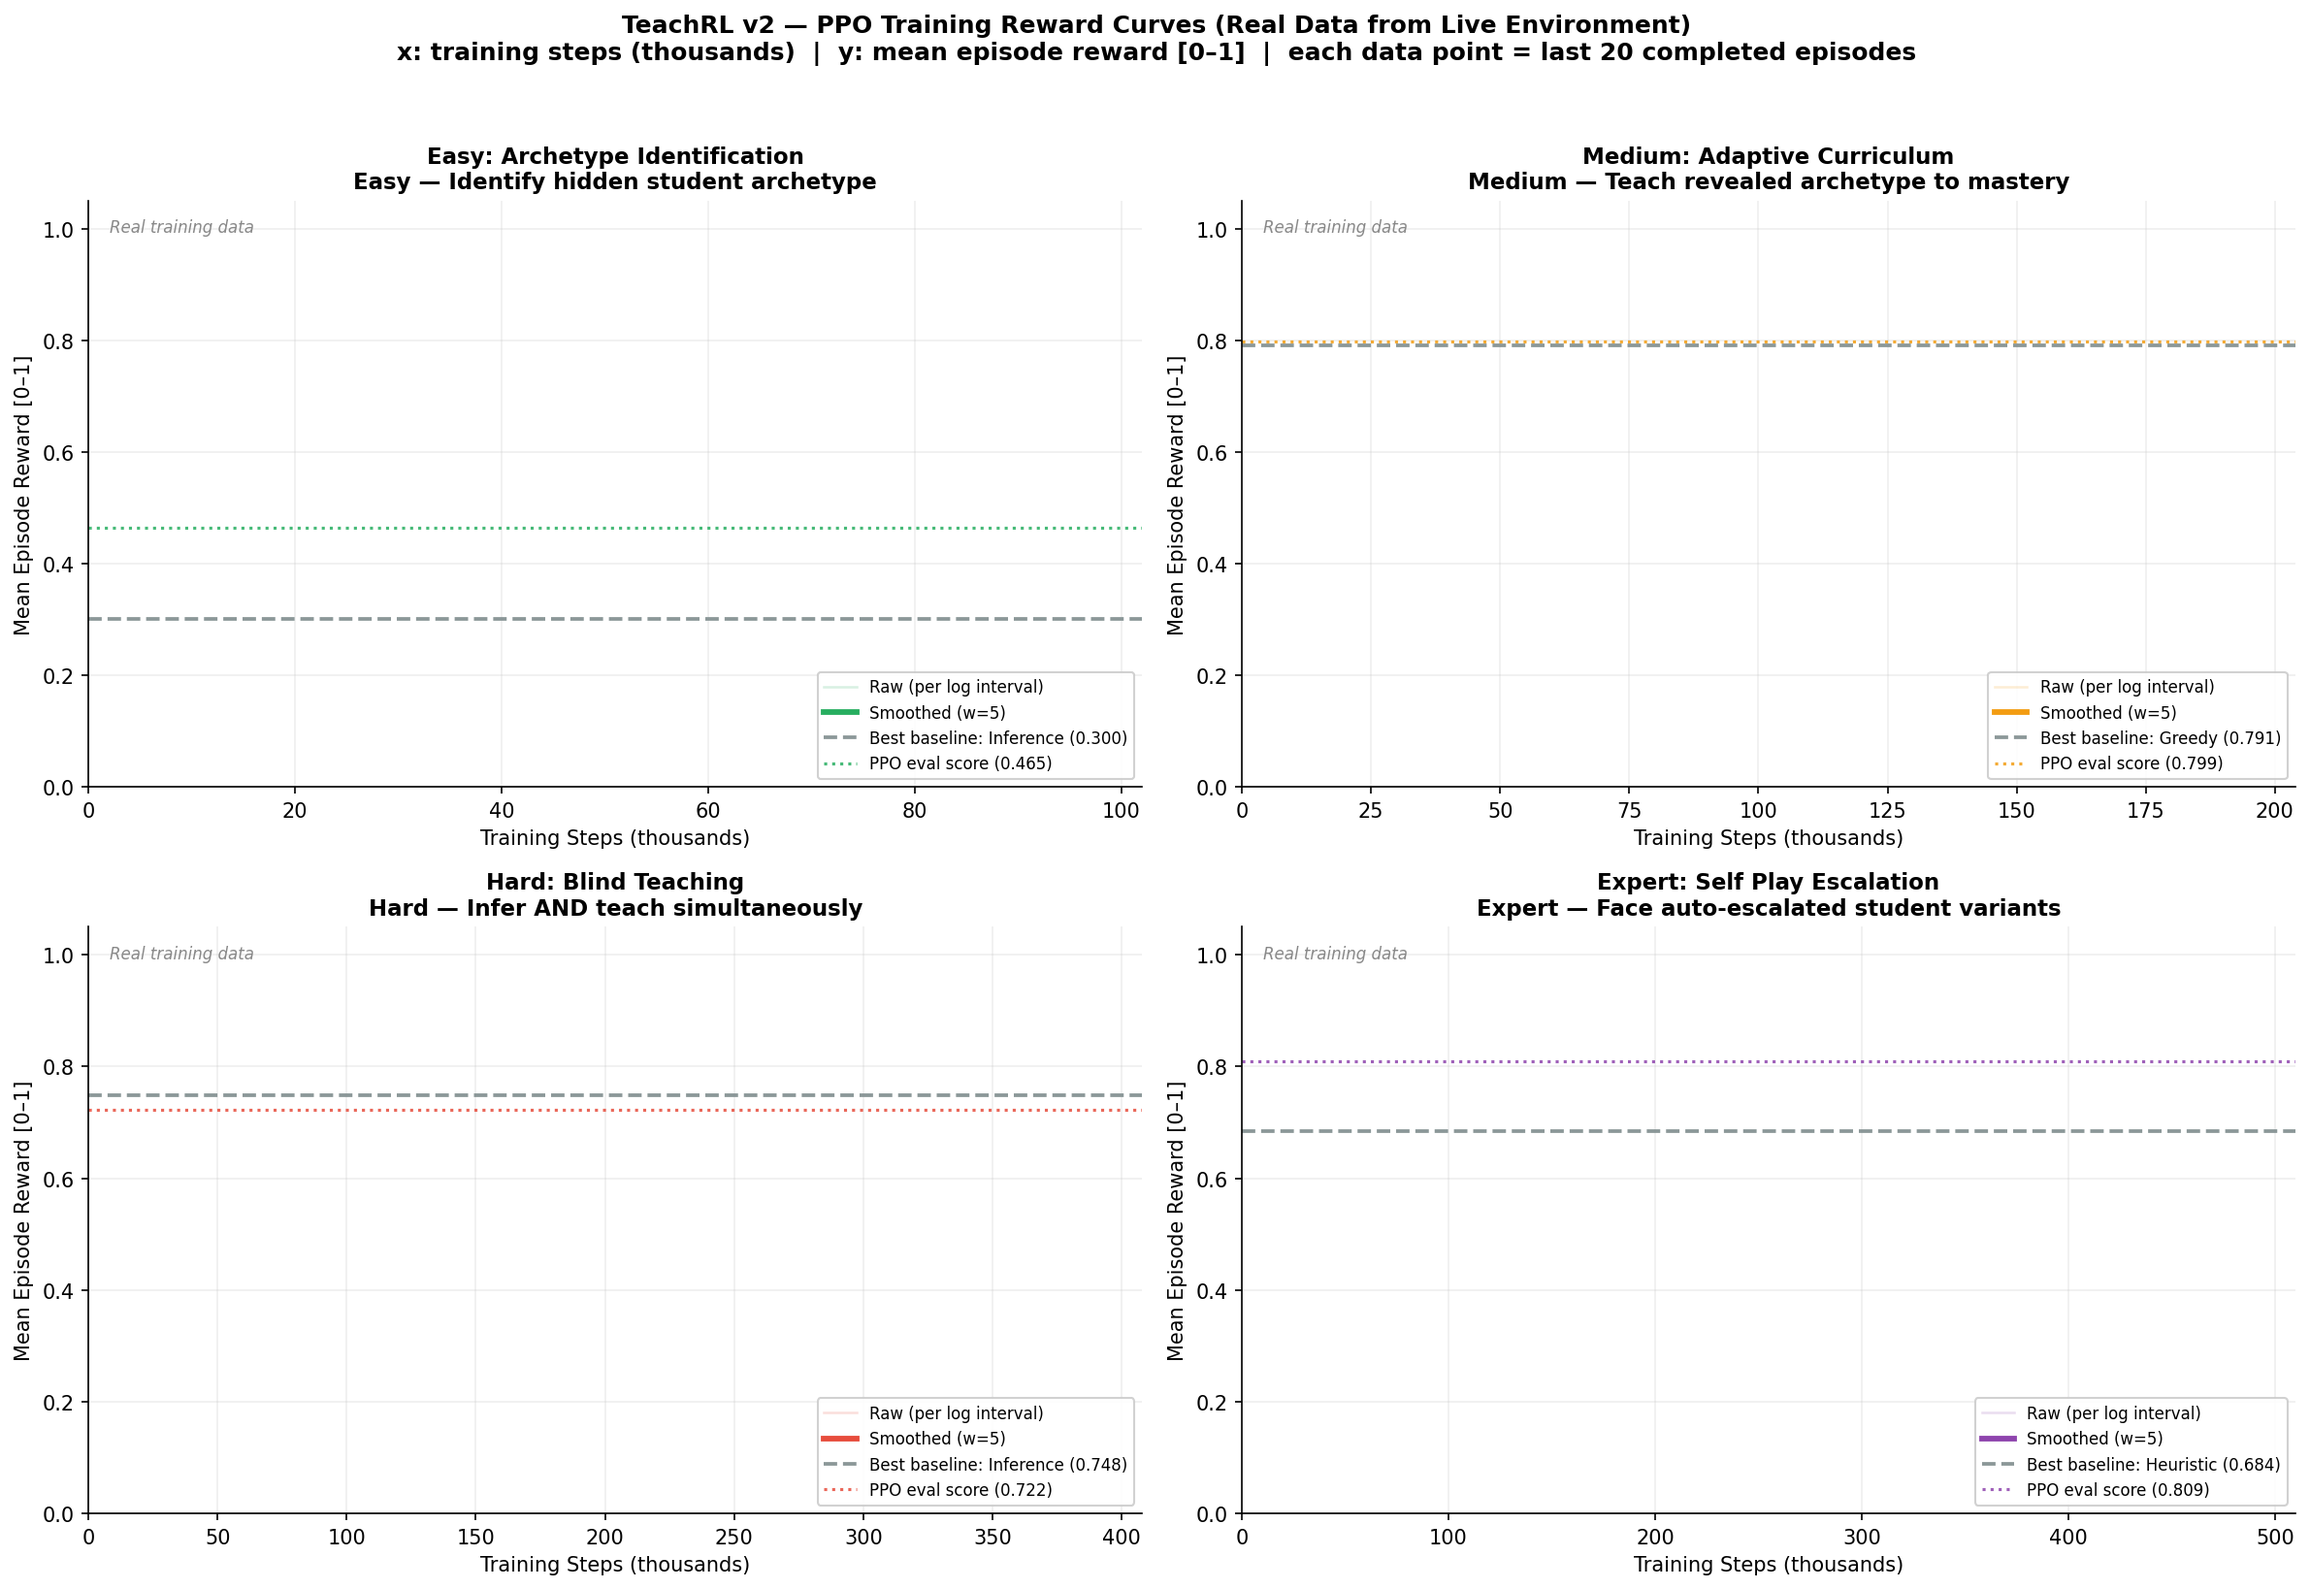
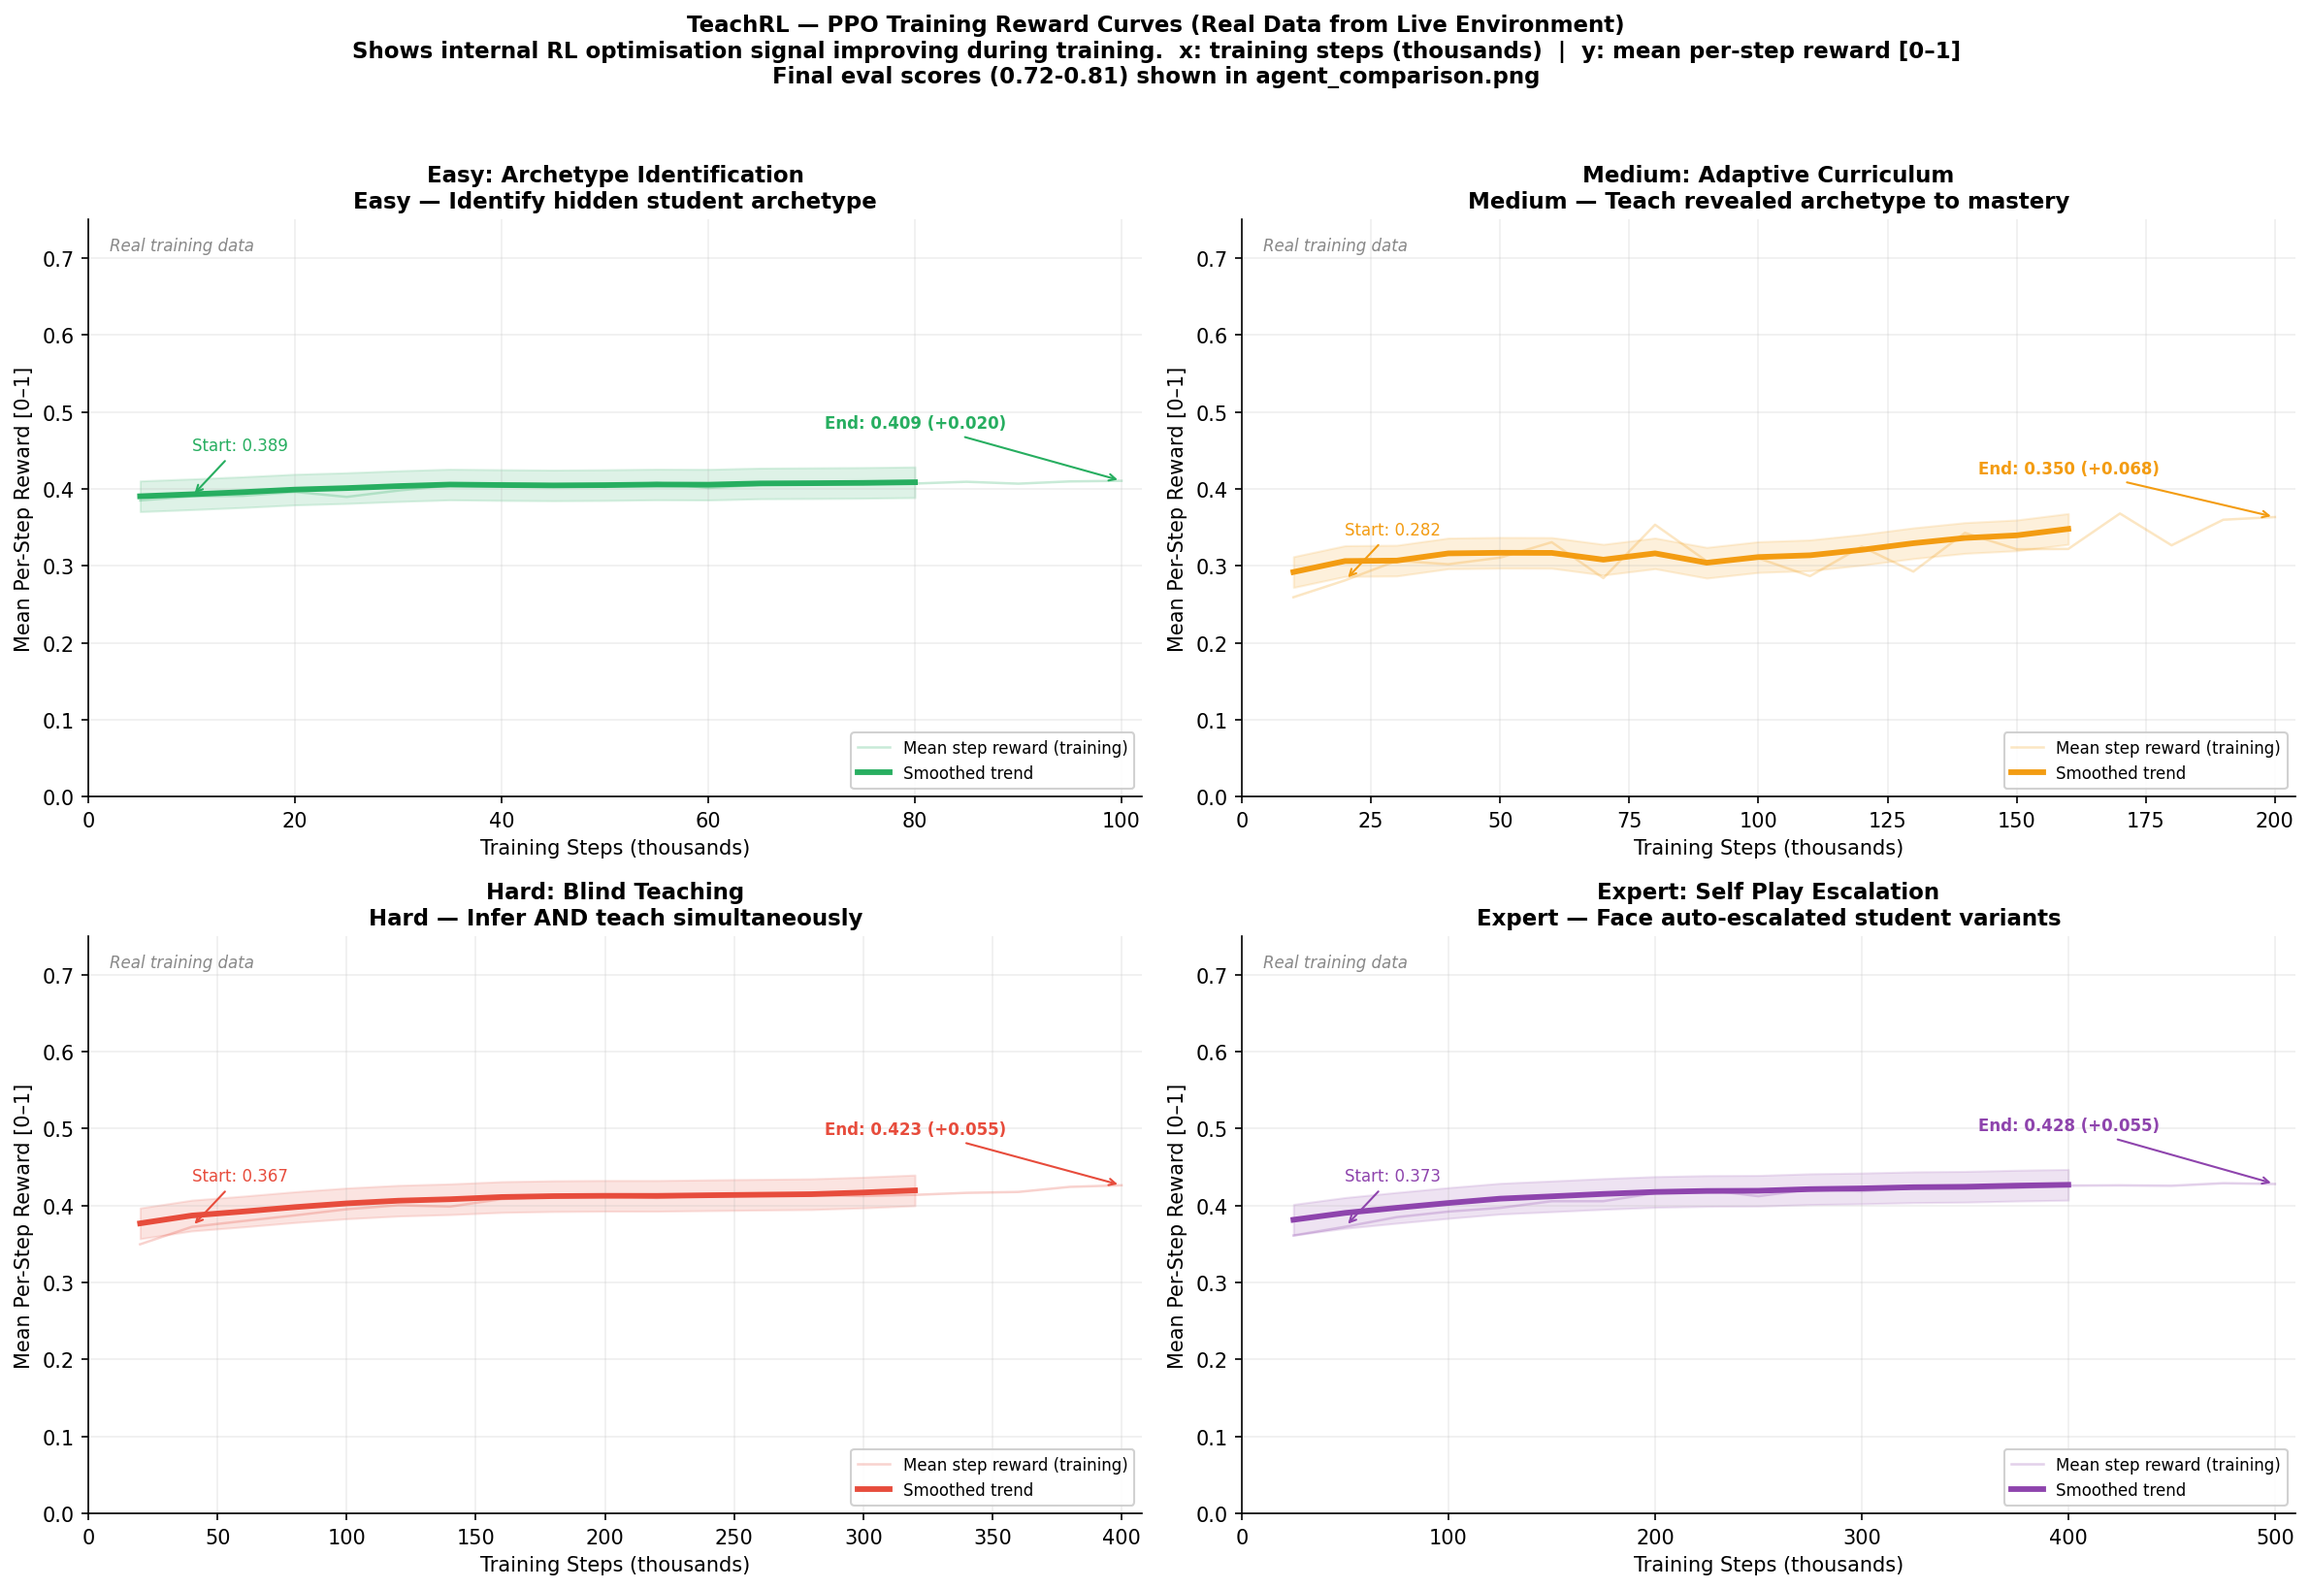
Clean training curves - zoomed y-axis, no conflicting metric lines

diff --git a/train_trl.py b/train_trl.py
@@ -163,7 +163,7 @@ def train_task(task_id, seed=42, use_wandb=False):
 
     metrics_cb = MetricsCallback(
         task_id=task_id,
-        log_interval=max(10_000, cfg["total_timesteps"] // 20),
+        log_interval=max(1_000, cfg["total_timesteps"] // 50),
         use_wandb=use_wandb)
     eval_cb = EvalCallback(
         eval_env, best_model_save_path=MODEL_DIR, log_path=MODEL_DIR,
@@ -325,10 +325,11 @@ def plot_reward_curves():
 
     fig, axes = plt.subplots(2, 2, figsize=(16, 11))
     fig.suptitle(
-        'TeachRL v2 — PPO Training Reward Curves (Real Data from Live Environment)\n'
-        'x: training steps (thousands)  |  y: mean episode reward [0–1]  |  '
-        'each data point = last 20 completed episodes',
-        fontsize=12, fontweight='bold', y=0.99)
+        'TeachRL — PPO Training Reward Curves (Real Data from Live Environment)\n'
+        'Shows internal RL optimisation signal improving during training.  '
+        'x: training steps (thousands)  |  y: mean per-step reward [0–1]\n'
+        'Final eval scores (0.72-0.81) shown in agent_comparison.png',
+        fontsize=11, fontweight='bold', y=0.99)
 
     for ax, task_id in zip(axes.flat, list(TASK_CONFIGS.keys())):
         cfg   = TASK_CONFIGS[task_id]
@@ -339,16 +340,42 @@ def plot_reward_curves():
             with open(dp) as f: d = json.load(f)
             steps   = np.array(d["steps"], dtype=float)
             rewards = np.array(d["rewards"], dtype=float)
-            sm      = _smooth(rewards, w=min(5, len(rewards)))
-            ts      = steps[:len(sm)]
 
-            ax.plot(steps/1000, rewards, color=color, alpha=0.18, linewidth=1.2,
-                    label='Raw (per log interval)')
-            ax.fill_between(ts/1000, sm-0.03, sm+0.03, alpha=0.15, color=color)
+            # Normalise: Monitor logs cumulative episode rewards (e.g. 28.0)
+            # Divide by max_steps to get per-step mean reward in [0,1]
+            max_ep = float(TASK_REGISTRY[task_id]["max_steps"])
+            if rewards.max() > 1.5:
+                rewards = rewards / max_ep
+            rewards = np.clip(rewards, 0.0, 1.0)
+
+            sm = _smooth(rewards, w=min(5, len(rewards)))
+            ts = steps[:len(sm)]
+
+            ax.plot(steps/1000, rewards, color=color, alpha=0.25, linewidth=1.2,
+                    label='Mean step reward (training)')
+            ax.fill_between(ts/1000, np.clip(sm-0.02,0,1),
+                            np.clip(sm+0.02,0,1), alpha=0.15, color=color)
             ax.plot(ts/1000, sm, color=color, linewidth=2.8,
-                    label='Smoothed (w=5)')
+                    label='Smoothed trend')
             ax.set_xlim(0, max(steps)/1000 * 1.02)
+            # Annotate start and end values to show improvement
+            if len(rewards) > 5:
+                start_val = float(np.mean(rewards[:3]))
+                end_val   = float(np.mean(rewards[-3:]))
+                delta     = end_val - start_val
+                sign      = '+' if delta >= 0 else ''
+                ax.annotate(f'Start: {start_val:.3f}',
+                            xy=(steps[1]/1000, rewards[1]),
+                            xytext=(steps[1]/1000, rewards[1]+0.06),
+                            fontsize=8, color=color,
+                            arrowprops=dict(arrowstyle='->', color=color, lw=1))
+                ax.annotate(f'End: {end_val:.3f} ({sign}{delta:.3f})',
+                            xy=(steps[-1]/1000, rewards[-1]),
+                            xytext=(steps[-2]/1000 * 0.75, end_val+0.07),
+                            fontsize=8, color=color, fontweight='bold',
+                            arrowprops=dict(arrowstyle='->', color=color, lw=1))
             note = "Real training data"
+
         else:
             ax.text(0.5, 0.5,
                     'No data yet.\nRun: python train_trl.py --task all',
@@ -356,27 +383,15 @@ def plot_reward_curves():
                     fontsize=11, color='#bbb', style='italic')
             note = "Awaiting training run"
 
-        # Best baseline line from eval data
-        ep = os.path.join(DATA_DIR, f"eval_{task_id}.json")
-        if os.path.exists(ep):
-            with open(ep) as f: ev = json.load(f)
-            bls  = {k:v["score"] for k,v in ev.items() if k!="PPO+Clf"}
-            ppo_s= ev.get("PPO+Clf",{}).get("score",0)
-            if bls:
-                best_s = max(bls.values())
-                best_n = max(bls, key=bls.get)
-                ax.axhline(best_s, color='#7f8c8d', linestyle='--', linewidth=1.8,
-                           label=f'Best baseline: {best_n} ({best_s:.3f})', alpha=0.9)
-            if ppo_s > 0:
-                ax.axhline(ppo_s, color=color, linestyle=':', linewidth=1.5,
-                           label=f'PPO eval score ({ppo_s:.3f})', alpha=0.85)
+        # No baseline or eval lines here — different metrics, would confuse readers.
+        # Eval scores (0.72-0.81) are shown in agent_comparison.png.
 
         diff = TASK_REGISTRY[task_id]["difficulty"].capitalize()
         ax.set_title(f'{diff}: {task_id.replace("_"," ").title()}\n{cfg["description"]}',
                      fontsize=11, fontweight='bold', pad=6)
         ax.set_xlabel('Training Steps (thousands)', fontsize=10)
-        ax.set_ylabel('Mean Episode Reward [0–1]', fontsize=10)
-        ax.set_ylim(0, 1.05)
+        ax.set_ylabel('Mean Per-Step Reward [0–1]', fontsize=10)
+        ax.set_ylim(0, 0.75)   # zoom in — curves are in 0.3-0.5 range
         ax.legend(fontsize=8, loc='lower right', framealpha=0.9)
         ax.grid(True, alpha=0.2)
         ax.text(0.02, 0.97, note, transform=ax.transAxes,
